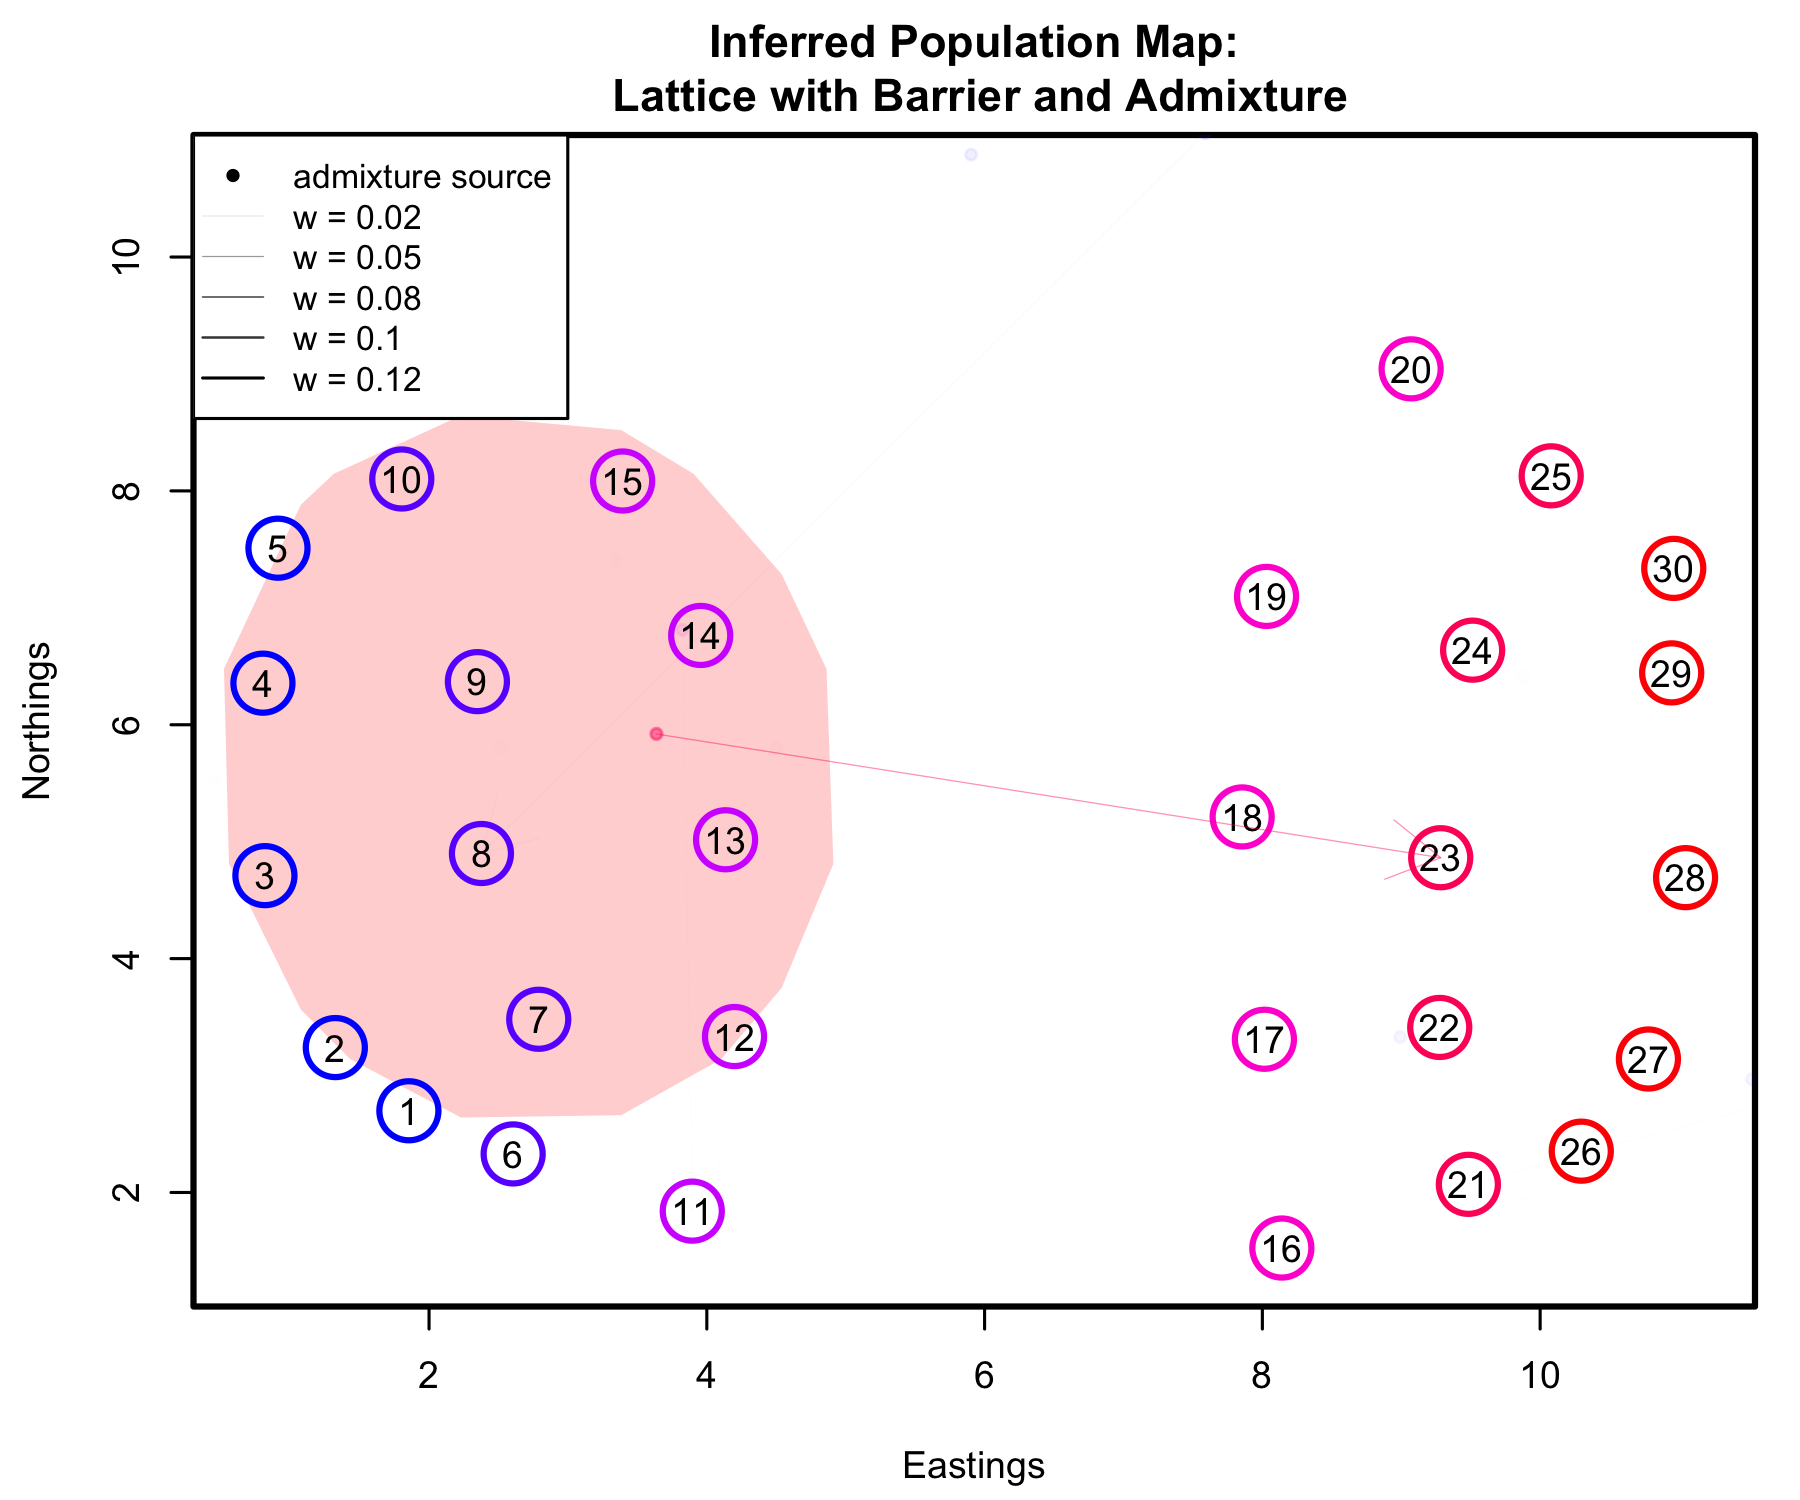
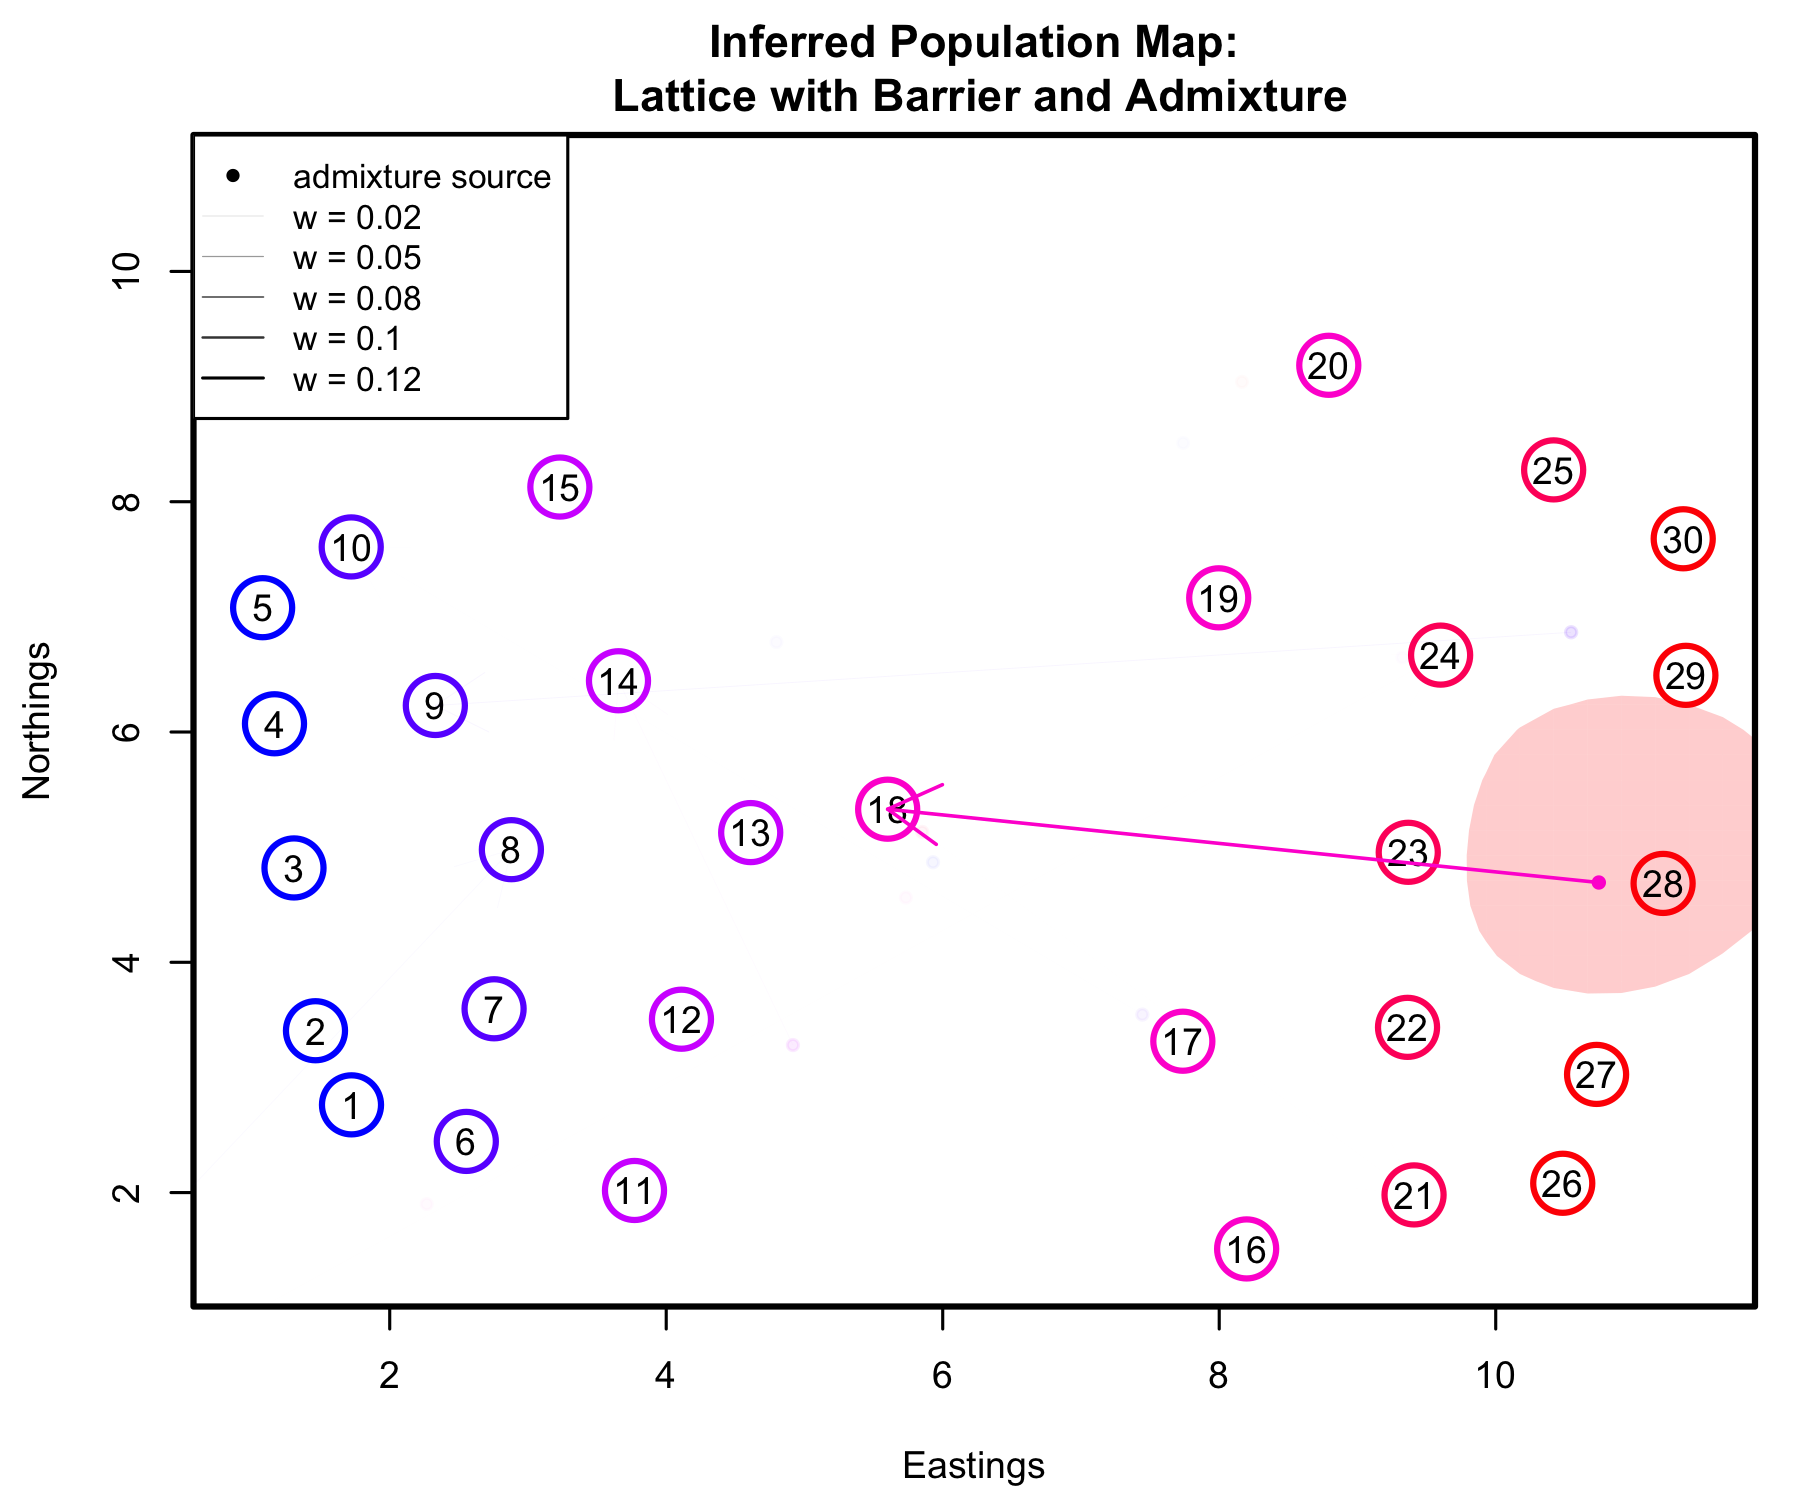
added non-inland barr_ad scenario

diff --git a/spacemix.tex b/spacemix.tex
@@ -361,7 +361,11 @@ Using the example admixture scenario described above and used in the analysis de
 %\end{equation}
 }
 
-To demonstrate the use of the model in which the location of each population as well as the location of its source of admixture are estimated jointly, we used the spatial stepping-stone coalescent simulation procedure described above to generate a dataset of populations on a lattice in which there is both a barrier to dispersal and a more subtle admixture event (admixture proportion = 10\%, see Fig. \ref{sfig:barr_inland_ad}\subref{barr_inland_ad_scenario}).  In the SpaceMix analysis (Fig. \ref{sfig:barr_inland_ad}\subref{barr_inland_ad_inference}), the separation of the east and west sides of the grid accommodates the effect of the barrier to migration, and the admixed population (population 23) chooses admixture from very close to its true source (population 13), and in close to the correct amount ($\bar{p} = 0.05; 95\% \text{ credible interval} = 0.02-0.08$). \gb{discuss how prior forces amount down, so it's cheaper to choose more westward pop as source}.
+To demonstrate the use of the model in which the location of each population as well as the location of its source of admixture are estimated jointly, we used the spatial stepping-stone coalescent simulation procedure described above to generate a dataset of populations on a lattice in which there is both a barrier to dispersal and a more subtle admixture event (admixture proportion = 10\%, see Fig. \ref{sfig:barr_inland_ad}\subref{barr_inland_ad_scenario}).  In the SpaceMix analysis (Fig. \ref{sfig:barr_inland_ad}\subref{barr_inland_ad_inference}), the separation of the east and west sides of the grid accommodates the effect of the barrier to migration, and the admixed population (population 23) chooses admixture from very close to its true source (population 13), and in close to the correct amount ($\bar{p} = 0.05; 95\% \text{ credible interval} = 0.02-0.08$). 
+
+\gb{discuss how prior forces amount down, so it's cheaper to choose more westward pop as source}.
+
+We also show a scenario in which there has been admixture (40\%) between two populations on either side of a barrier.  \gb{contrast with inland admixture scenario}.
 
 \begin{figure}[ht!]
 	\centering
@@ -369,7 +373,11 @@ To demonstrate the use of the model in which the location of each population as 
 			{\includegraphics[width=2in,height=1.66in]{figs/sims/barr_indland_ad_lattice.png}}
 		\subcaptionbox{Barrier \label{barr_inland_ad_inference}}
 			{\includegraphics[width=2in,height=1.66in]{figs/sims/GeoGenMap_barr_inland_admixture_1.png}}
-	\caption{Population maps inferred using SpaceMix under three different scenarios: a) simple lattice at equilibrium; b) a lattice with a barrier across the center line of longitude; c) a lattice with recent expansion on the eastern margin.}\label{sfig:barr_inland_ad}
+		\subcaptionbox{Lattice \label{big_barr_ad_scenario}}
+			{\includegraphics[width=2in,height=1.66in]{figs/sims/big_barr_ad_lattice.png}}
+		\subcaptionbox{Barrier \label{barr_inland_ad_inference}}
+			{\includegraphics[width=2in,height=1.66in]{figs/sims/GeoGenMap_big_barr_ad_1.png}}
+	\caption{Simulation scenarios and inferred population maps for two different admixture scenarios: a) lattice with a barrier and an admixture event across the barrier to an `inland' population; b) the inferred population map for the scenario in (a); c) lattice with a barrier and an admixture event across the barrier to a population on the border of the barrier; (d) the inferred population map for the scenario in (c).}\label{sfig:barr_inland_ad}
 \end{figure}
 %This most complex model is, in many cases, nonetheless identifiable.  Although in certain scenarios, a population may choose a location nearer to its source of admixture, rather than 
 
@@ -774,20 +782,19 @@ Instead, we propose for a bearing and a distance traveled, and, given these two 
 \end{align}
 and
 \begin{align}
-\text{proposed longitude} = &(\text{current longitude} - \\ \notag
-					 	&\arctan(
+\text{proposed longitude} = & - \pi + (\text{current longitude} \; - \\ \notag
+					 	&\hspace{1cm} \arctan(
 							\sin(\gamma) \times
 							\sin(\Delta) \times
 							\cos(\text{current latitude}) , \\ \notag
-						&	\cos(\Delta) - 
-							\sin(\text{current latitude}) \times
-							\sin(\text{proposed latitude})) + \\ \notag
-						\pi) \bmod 
-						(2\pi) - \pi
+						& \hspace{2cm} \cos(\Delta) - 
+							\sin(\text{current latitude}) \times \\ \notag
+						& \hspace{2cm} \sin(\text{proposed latitude})) + \pi) \; \bmod (2\pi) \\ \notag
 \end{align}
 
-where latitude and longitude are given in radians.
-We use an adaptive Metropolis-within-Gibbs proposal mechanism on all parameters (Roberts and Rosenthal 2008, Rosenthal 2010).  This mechanism 
+where latitude and longitude are given in radians.  As with $\eta$ and $w$, the scales of the tuning parameters for the different populations and different location parameters ($G^{\prime}$ and $\identifyadmixsource{G}$) were not equal.
+
+We use an adaptive Metropolis-within-Gibbs proposal mechanism on all parameters (Roberts and Rosenthal 2008, Rosenthal 2010).  This mechanism attempts to maintain an acceptance rate for each parameter as close as possible to 0.44 (optimal for one-dimensional proposal mechanisms; Roberts et al 1997, Roberts and Rosenthal 2001)
 
 
 
